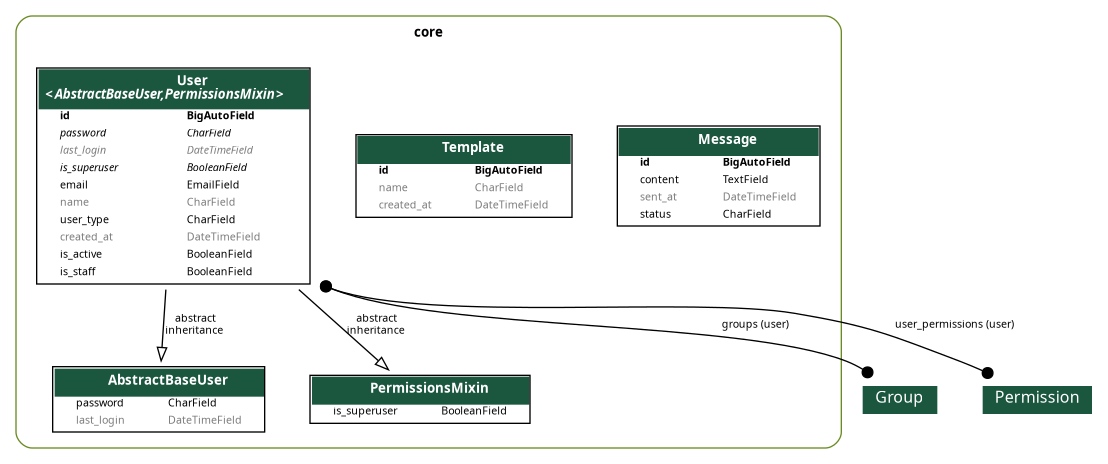
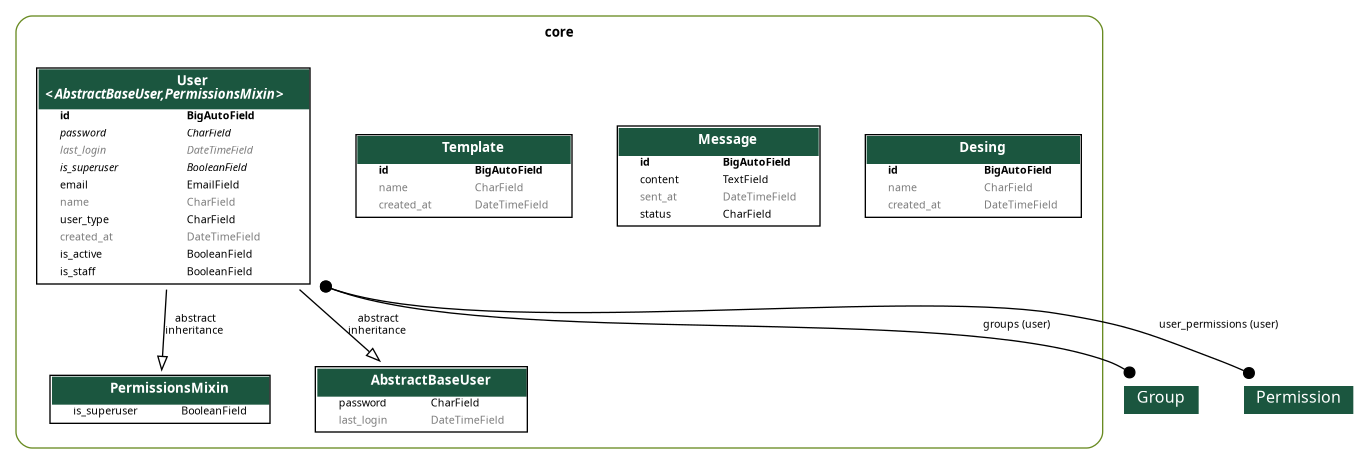
feat: criação da API para Desings

diff --git a/core/migrations/0011_desing.py b/core/migrations/0011_desing.py
@@ -1,0 +1,21 @@
+# Generated by Django 5.2.12 on 2026-04-17 17:16
+
+from django.db import migrations, models
+
+
+class Migration(migrations.Migration):
+
+    dependencies = [
+        ('core', '0010_alter_template_created_at'),
+    ]
+
+    operations = [
+        migrations.CreateModel(
+            name='Desing',
+            fields=[
+                ('id', models.BigAutoField(auto_created=True, primary_key=True, serialize=False, verbose_name='ID')),
+                ('name', models.CharField(blank=True, default='Novo Desing', max_length=255)),
+                ('created_at', models.DateTimeField(auto_now_add=True)),
+            ],
+        ),
+    ]

diff --git a/core/admin.py b/core/admin.py
@@ -6,7 +6,16 @@ from django.contrib import admin
 from django.contrib.auth.admin import UserAdmin as BaseUserAdmin
 from django.utils.translation import gettext_lazy as _
 
-from core.models import Message, Template, User
+from core.models import Desing, Message, Template, User
+
+
[email redacted](Desing)
+class DesingAdmin(admin.ModelAdmin):
+    list_display = ['created_at', 'name']
+    search_fields = ['created_at', 'name']
+    list_filter = ['created_at']
+    ordering = ['created_at', 'name']
+    list_per_page = 10
 
 
 @admin.register(Template)

diff --git a/core/serializers/desing.py b/core/serializers/desing.py
@@ -1,0 +1,9 @@
+from rest_framework.serializers import ModelSerializer
+
+from core.models import Desing
+
+
+class DesingSerializer(ModelSerializer):
+    class Meta:
+        model = Desing
+        fields = '__all__'

diff --git a/core/views/desing.py b/core/views/desing.py
@@ -1,0 +1,9 @@
+from rest_framework.viewsets import ModelViewSet
+
+from core.models import Desing
+from core.serializers import DesingSerializer
+
+
+class DesingViewSet(ModelViewSet):
+    queryset = Desing.objects.all()
+    serializer_class = DesingSerializer

diff --git a/core/models/desing.py b/core/models/desing.py
@@ -1,0 +1,6 @@
+from django.db import models
+
+
+class Desing(models.Model):
+    name = models.CharField(max_length=255, blank=True, default='Novo Desing')
+    created_at = models.DateTimeField(auto_now_add=True)

diff --git a/app/urls.py b/app/urls.py
@@ -12,10 +12,11 @@ from rest_framework_simplejwt.views import (
     TokenVerifyView,
 )
 
-from core.views import MessageViewSet, TemplateViewSet, UserRegistrationView, UserViewSet
+from core.views import DesingViewSet, MessageViewSet, TemplateViewSet, UserRegistrationView, UserViewSet
 
 router = DefaultRouter()
 
+router.register(r'desing', DesingViewSet, basename='desings')
 router.register(r'templates', TemplateViewSet, basename='templates')
 router.register(r'menssagens', MessageViewSet, basename='menssagens')
 router.register(r'usuarios', UserViewSet, basename='usuarios')

diff --git a/core/models/__init__.py b/core/models/__init__.py
@@ -1,3 +1,4 @@
+from .desing import Desing
 from .message import Message
 from .template import Template
 from .user import User

diff --git a/core/serializers/__init__.py b/core/serializers/__init__.py
@@ -1,3 +1,4 @@
+from .desing import DesingSerializer
 from .message import MessageSerializer
 from .template import TemplateSerializer
 from .user import UserRegistrationSerializer, UserSerializer

diff --git a/core/views/__init__.py b/core/views/__init__.py
@@ -1,3 +1,4 @@
+from .desing import DesingViewSet
 from .message import MessageViewSet
 from .template import TemplateViewSet
 from .user import UserRegistrationView, UserViewSet